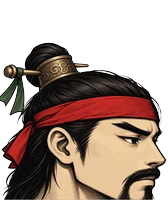
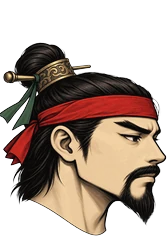
fix(s2): v585 무인 얼굴 — 턱까지 다시 그린 머리 · 턱은 옷깃 앞으로
- 머리 일곱 가지를 턱 · 수염 · 목 윗부분까지 다시 그림(전 그림은 턱 아래가 화폭에 잘려 있었다)
- 머리마다 가르는 줄: 얼굴 · 턱은 몸 앞 · 목만 옷깃 뒤(입 높이에서 일자로 끊기던 것)
- 장비 창 무인은 창이 열린 동안 계속 그림(그림이 늦게 와도) · 외형대로
- tools/s2art/head_fit2.py · wear.py 틀 고침

Claude-Session: https://claude.ai/code/session_01A3prWCVJXDYfeByQW7RT7U

diff --git a/js/s2/ui/look.js b/js/s2/ui/look.js
@@ -1,7 +1,7 @@
 // 새 시즌 미리보기 그림 — 지금 게임의 실제 그림(무인 · 몹 · 동물 · 지역 두목)을 그대로 빌려 쓴다.
 // 새 시즌 전용 그림(계획서 §M)이 나오기 전까지의 다리. 사냥터 레벨 → 지금 게임의 같은 레벨대 지역 모습.
 import { drawFighter } from '../../battle.js';
-import { loadArt, registerArt, OUTFIT_BODY, OUTFIT_WEAPON, WEAPON_FIT, HEAD_FIT } from '../../art.js';
+import { loadArt, registerArt, OUTFIT_BODY, OUTFIT_WEAPON, WEAPON_FIT, HEAD_FIT, FIT } from '../../art.js';
 import { HEAD_ANCHOR } from '../../headanchor.js';
 import { drawCreature } from '../../creatures.js';
 import { bossImg } from '../../bossfx.js';
@@ -49,7 +49,7 @@ function shade(hex, k) {
 //   신발: 장화 빛깔 · 망토: 등 뒤 망토 · 허리띠: 띠와 옥 노리개 · 목걸이: 몸 둘레 기운 낟알 · 반지: 발밑 문양 · 무기: 칼빛(진부터 빛남)
 //   가장 높은 등급이 신(5)↑이면 몸 기운
 // v517 장비 모양 조각(art/s2/wear) — 상의는 도포 그림, 모자는 머리(같은 얼굴 + 쓰개), 무기는 손에 쥔 그림. 받기 전에는 v516 빛깔로 그린다
-const WEAR_PAD = 60, WEAR_HC = 140;   // 머리 조각: 위 여유 · 상투 머리(잘라 낸 뒤) 높이 — tools/s2art/wear_fit.py와 같다
+const WEAR_PAD = 60, WEAR_HC = 140, WEAR_BOT = 40, WEAR_SPLIT = 22;   // v585 아래 BOT — 턱 · 목까지 그린 머리(tools/s2art/head_fit2.py)   // 머리 조각: 위 여유 · 상투 머리(잘라 낸 뒤) 높이 — tools/s2art/wear_fit.py와 같다
 const wear = {};
 let wearN = 0;
 export const wearCount = () => wearN;
@@ -66,9 +66,12 @@ function wearHead(g) {
   const key = `head-s2-${g}`;
   return wearImg(`head-${g}`, (im) => {
     // 상투 머리의 자리 값을 위 여유만큼 옮겨 그대로 — 얼굴 · 이마 · 턱이 같은 자리에 온다
-    const f = (v) => (WEAR_PAD + v * WEAR_HC) / (WEAR_PAD + WEAR_HC), A = HEAD_ANCHOR['head-topknot'], T = HEAD_FIT['head-topknot'];
+    // v585 화폭 = 위 PAD + 머리 HC + 아래 BOT(턱 · 목). 자리 값(위에서)은 그만큼 옮기고, 그림은 BOT만큼 내려 그린다 —
+    //   얼굴은 전 자리 그대로 · 턱은 앞에 · 목은 몸(옷깃) 뒤로(HEAD_SPLIT 아래는 몸 뒤에 그린다)
+    const H = WEAR_PAD + WEAR_HC + WEAR_BOT, f = (v) => (WEAR_PAD + v * WEAR_HC) / H, fb = (v) => (WEAR_BOT + v * WEAR_HC) / H;   // fb: 아래에서 잰 값(눈 · 눈썹)
+    const A = HEAD_ANCHOR['head-topknot'], T = HEAD_FIT['head-topknot'], F0 = T.fit || FIT.head;
     HEAD_ANCHOR[key] = { ...A, eyeY: f(A.eyeY), browY: f(A.browY), topY: f(A.topY), jawY: f(A.jawY) };
-    registerArt(key, im, { ...T, crop: 1, brow: f(T.brow), eye: f(T.eye) });
+    registerArt(key, im, { ...T, crop: 1, brow: fb(T.brow), eye: fb(T.eye), fit: { ...F0, y: F0.y + (WEAR_BOT * F0.w) / im.width }, split: F0.y + (WEAR_SPLIT * F0.w) / im.width });   // 턱 아래 WEAR_SPLIT px부터 몸 뒤로
   }) ? key : null;
 }
 const WEAR_W = { sword: 'sword', spear: 'spear', fist: 'fist', mage: 'staff' };   // 궁사 활은 그려 넣는 모양 그대로(빛만)

diff --git a/js/battle.js b/js/battle.js
@@ -4886,7 +4886,7 @@ export function drawFighter(ctx, x, y, look = {}, o = {}) {
   const mBody = look.robeTint ? (look.female ? 'f-body-white' : 'body-white') : bodyKey(look);
   const MG = hk0 && !o.noMerge ? mergedArt(mBody, hk0, look.band, tintHead0, look.robeTint || null) : null;
   if (hk0 && !o.noMerge) { if (MG) DRAW_STAT.merged++; else { DRAW_STAT.parts++; DRAW_STAT.last = `${mBody}--${hk0}`; } }
-  if (hk0 && !MG) { const F0 = (HEAD_FIT[hk0]?.fit) || FIT.head; drawHeadArt(ctx, hk0, { ...F0, y: F0.y + neckDy }, look, HEAD_SPLIT + neckDy, 99); }
+  if (hk0 && !MG) { const F0 = (HEAD_FIT[hk0]?.fit) || FIT.head; drawHeadArt(ctx, hk0, { ...F0, y: F0.y + neckDy }, look, splitOf(hk0) + neckDy, 99); }
   // 상체 — 그림 조각이 있으면 도포·상체·허리띠를 한 장으로 갈음한다
   const artBody = artReady() && !jiang && !look.ghost;
   // 두목 옷: 흰 도포 그림에 그 빛깔을 곱해 입힌다(그림 도포 여섯 빛깔에 없는 색도 그대로 나온다)
@@ -4947,7 +4947,7 @@ export function drawFighter(ctx, x, y, look = {}, o = {}) {
   const backDone = hk && hk === hk0 && !look.ghost;
   if (hk && MG && hk === hk0) {
     // 한 장 그림에 머리까지 다 있다
-  } else if (hk && (backDone ? drawHeadArt(ctx, hk, HF, look, headTop, HEAD_SPLIT + neckDy, tintHead) : hatR ? drawHeadArt(ctx, hk, HF, look, headTop, 99, tintHead) : (tintHead ? putArtBand(ctx, hk, HF, look.band) : putArt(ctx, hk, HF)))) {
+  } else if (hk && (backDone ? drawHeadArt(ctx, hk, HF, look, headTop, splitOf(hk) + neckDy, tintHead) : hatR ? drawHeadArt(ctx, hk, HF, look, headTop, 99, tintHead) : (tintHead ? putArtBand(ctx, hk, HF, look.band) : putArt(ctx, hk, HF)))) {
     // 머리카락까지 한 장
   } else {
   ctx.fillStyle = skin;
@@ -5143,6 +5143,8 @@ function femaleHeadKey(style, hairK, band) {
 // v359 모습 점검(tests/looks.cjs) — 무인을 한 장 그림으로 그렸나, 옛 조각으로 그렸나
 export const DRAW_STAT = { merged: 0, parts: 0, last: '' };
 const HEAD_SPLIT = FIT.head.y - 2;   // v327 이 선 아래 머리 그림은 몸 뒤로
+// v585 머리마다 가르는 줄 — 턱 · 목까지 그린 새 시즌 머리는 턱 아래(목)만 몸 뒤로(얼굴 · 턱은 앞에). 없으면 위 줄
+const splitOf = (hk) => HEAD_FIT[hk]?.split ?? HEAD_SPLIT;
 // v355 도구용 — 조각(머리 뒤쪽 · 도포 · 머리 앞쪽)만 이어 그린다(팔·다리·무기 없이). tools/charv355가 이걸 sunburst에 한 장으로 다시 그리게 넘긴다
 export function drawBodyHeadParts(ctx, look) {
   const hk = headKey(look), bk = bodyKey(look);

diff --git a/js/s2/ui/app.js b/js/s2/ui/app.js
@@ -447,7 +447,12 @@ function paintWin() {
     const c0 = card('끼고 있는 것', `전투력 ${unit(g.power())}`); c0(wrap);
     const nb = SLOTS.filter((s) => G.bag.some((x) => x.slot === s && (!G.eq[s] || gearScore(x, L) > gearScore(G.eq[s], L)))).length;
     c0(R('최고 장비 모두 끼기', nb ? `${nb}칸을 더 좋은 것으로` : '모두 가장 좋은 것을 끼고 있어요', [['모두 끼기', act(() => { const p0 = g.power(), n = equipBest(G, L); g.dirtyStats = true; g.emit('equip'); if (n) setTimeout(() => toast(`${n}칸 바꿈 · 전투력 ${unit(p0)} → ${unit(g.power())}`), 0); return n > 0; }), !nb]], '裝'));
-    requestAnimationFrame(() => { const x = cvs.getContext('2d'); x.clearRect(0, 0, 240, 300); x.save(); x.translate(0, 10); const gr = x.createRadialGradient(120, 190, 10, 120, 190, 130); gr.addColorStop(0, '#e8c26a44'); gr.addColorStop(1, 'rgba(0,0,0,0)'); x.fillStyle = gr; x.fillRect(0, 0, 240, 300); drawHero(x, 120, 270, g.S.hero.job, g.S.hero.lv, { t: now() / 1000, scale: 2.2, eq: g.S.gear.eq }); x.restore(); });
+    // v585 장비 창 무인 — 한 번만 그리면 머리 · 옷 그림이 아직 안 받아졌을 때 대신 그린 얼굴이 남았다(얼굴이 깨져 보임) → 창이 열려 있는 동안 계속 그린다(초당 20번) · 외형대로
+    { let last = 0; const paint = (ts) => {
+        if (!cvs.isConnected) return;
+        if (ts - last > 50) { last = ts; const x = cvs.getContext('2d'); x.clearRect(0, 0, 240, 300); x.save(); x.translate(0, 10); const gr = x.createRadialGradient(120, 190, 10, 120, 190, 130); gr.addColorStop(0, '#e8c26a44'); gr.addColorStop(1, 'rgba(0,0,0,0)'); x.fillStyle = gr; x.fillRect(0, 0, 240, 300); drawHero(x, 120, 270, g.S.hero.job, g.S.hero.lv, { t: now() / 1000, scale: 2.2, eq: g.lookEq() }); x.restore(); }
+        requestAnimationFrame(paint);
+      }; requestAnimationFrame(paint); }
     const sl = eqSel && SLOTS.includes(eqSel) ? eqSel : null;
     if (sl) {
       const it = G.eq[sl], S2 = G.slots[sl], stt = it ? itemStats(it, S2, L) : {};

diff --git a/js/s2/tables/news.js b/js/s2/tables/news.js
@@ -1,6 +1,7 @@
 // v560 업데이트 소식 — 돌아온 무인에게 새로 생긴 것을 짧게(최신이 위). v는 이 소식이 붙은 판.
 //   S.newsV(세이브)보다 새 소식이 있으면 들어올 때 한 번 보여 준다. 새로 시작한 무인은 지금 판으로 둔다(볼 것 없음).
 export const NEWS = [
+  { v: 585, title: '무인 얼굴 다시 그림', lines: ['턱 · 수염이 일자로 잘려 보이던 머리 일곱 가지를 턱까지 다시 그렸어요', '장비 창 무인은 이제 움직이고 외형대로 보여요'] },
   { v: 584, title: '길잡이 뒤에도 안내', lines: ['길잡이를 다 끝내면 왼쪽 칸에 오늘 할 일 다음 것 · 누르면 바로'] },
   { v: 583, title: '두목 연습', lines: ['던전 → 토벌 — 「연습」으로 깬 장 두목과 횟수 · 보상 없이(손으로 피하기 연습)'] },
   { v: 582, title: '탑 연속 오르기', lines: ['무한의 탑 — 질 때까지(최대 30층) 다음 층을 바로'] },

diff --git a/sw.js b/sw.js
@@ -1,5 +1,5 @@
 // 앱 껍데기를 캐시해 오프라인에서도 열리게 한다. 온라인이면 항상 새 파일을 먼저 받는다.
-const CACHE = 'ifu-v584';
+const CACHE = 'ifu-v585';
 const SHELL = [
   './', 'index.html', 'classic.html', 's2.html', 'install.html', 'icons/qr-install.png', 'css/style.css', 'manifest.webmanifest',
   'js/clock.js', 'js/big.js', 'js/data.js', 'js/battle.js', 'js/net.js', 'js/savecode.js', 'js/art2.js', 'js/headanchor.js', 'js/chars.js', 'js/vault.js', 'js/femhead.js', 'js/fmt.js', 'js/firebase-config.js',

diff --git a/js/data.js b/js/data.js
@@ -51,7 +51,7 @@ export const critExpect = (C, D) => {
 // NaN이 된다 — 재 보니 적 체력이 관문 8467에서 그 선을 넘었다.
 // 반대로 상한이 있는 값(경지 배수·초월 단계처럼)은 보통 숫자 그대로 둔다.
 
-export const BUILD = 'ifu-v584';
+export const BUILD = 'ifu-v585';
 
 export const SAVE_VERSION = 4;
 export const OFFLINE_CAP_SEC = 12 * 3600;

diff --git a/tools/s2art/head_fit2.py b/tools/s2art/head_fit2.py
@@ -1,0 +1,60 @@
+# v585 머리 조각 다시 맞춤 — 새로 그린 머리(턱 · 수염 · 목 윗부분까지 다 보이게)를 게임 머리 조각으로.
+#   전 그림(tools/s2art/wear.py)은 참고 머리처럼 턱 아래가 화폭에 잘려 있어 장비 창처럼 크게 그리면 턱이 일자로 끊겨 보였다.
+#   크기: 머리띠 가운데 ~ 코끝 높이 · 가로: 코끝 · 세로: 머리띠(붉은 띠)의 가운데를 참고 상투 머리에 맞춘다.
+#   화폭: 168 x (PAD + CHIN + BOT) — 위 PAD(관 · 깃털) · 아래 BOT(턱 · 목). 게임은 BOT만큼 내려 그린다(js/s2/ui/look.js WEAR_BOT).
+#   사용: python3 tools/s2art/head_fit2.py <새 머리 png 폴더>   → art/s2/wear/head-*.webp
+import sys, os, glob
+from PIL import Image
+sys.path.insert(0, os.path.dirname(__file__))
+SRC = sys.argv[1]
+HERE = os.path.dirname(__file__)
+HERO = os.path.join(HERE, '..', '..', 'art', 'hero')
+OUT = os.path.join(HERE, '..', '..', 'art', 's2', 'wear')
+PAD, BOT = 60, 40
+BAND_AT = 107   # 머리띠 가운데 높이 — 전 머리(v533, 턱을 화폭 아래에 맞춘 것)들의 자리와 같게(참고 머리 그대로면 11px 낮아 턱이 옷깃 뒤로 숨었다)
+
+def skin_box(im):
+    w, h = im.size; px = im.load(); xs = []; ys = []
+    bb = im.getchannel('A').point(lambda v: 255 if v > 20 else 0).getbbox() or (0, 0, w, h)
+    for y in range(bb[1] + int((bb[3] - bb[1]) * 0.45), bb[3], 2):
+        for x in range(0, w, 2):
+            r, g, b, a = px[x, y]
+            if a > 200 and r > 170 and g > 120 and b > 85 and r > g > b and r - b > 30 and r - b < 120:
+                xs.append(x); ys.append(y)
+    xs.sort(); ys.sort(); n = len(xs)
+    return xs[n // 100], ys[n // 100], xs[n * 99 // 100], ys[n * 99 // 100]
+def band_y(im, lo=0.2, hi=0.75):
+    px = im.load(); w, h = im.size; bb = im.getchannel('A').point(lambda v: 255 if v > 40 else 0).getbbox()
+    rows = []
+    for y in range(bb[1] + int((bb[3] - bb[1]) * lo), bb[1] + int((bb[3] - bb[1]) * hi), 1):
+        n = sum(1 for x in range(0, w, 2) if px[x, y][3] > 200 and px[x, y][0] > 110 and px[x, y][0] > 2 * px[x, y][1] and px[x, y][0] > 2 * px[x, y][2])
+        rows.append((n, y))
+    m = max(n for n, _ in rows); ys = [y for n, y in rows if n >= m * 0.6]
+    return sum(ys) / len(ys)
+def nose_x(im, y0, y1):
+    px = im.load(); w = im.size[0]
+    return max(x for y in range(int(y0), int(y1), 2) for x in range(w) if px[x, y][3] > 200)
+def nose_tip(im, y0, y1):   # 머리띠 아래 가장 오른쪽 점(코끝) — (x, y)
+    px = im.load(); w = im.size[0]; best = (-1, 0)
+    for y in range(int(y0), int(y1)):
+        for x in range(w - 1, -1, -1):
+            if px[x, y][3] > 200:
+                if x > best[0]: best = (x, y)
+                break
+    return best
+
+ref = Image.open(f'{HERO}/head-topknot.png').convert('RGBA'); RW, RH = ref.size
+CHIN = round(RH * 0.93)
+rB = band_y(ref, 0.35, 0.75); rN, rNy = nose_tip(ref, rB + 6, CHIN - 10); rb = skin_box(ref)
+for f in sorted(glob.glob(f'{SRC}/head-*.png')):
+    im = Image.open(f).convert('RGBA')
+    # 크기: 머리띠 가운데 ~ 코끝 높이(쓰개 · 턱 · 목과 상관없다) — 전엔 아래 얼굴 살빛 폭이라 목까지 그린 그림에서 머리가 작아졌다
+    gB = band_y(im); bb = im.getchannel('A').getbbox()
+    gN, gNy = nose_tip(im, gB + 20, gB + (bb[3] - gB) * 0.5)
+    k = (rNy - rB) / (gNy - gB)
+    gb = skin_box(im); k2 = (rb[2] - rb[0]) / (gb[2] - gb[0])   # 얼굴 폭으로 잰 값 — 코끝을 잘못 잡으면(쓰개 비녀가 오른쪽 끝) 이것으로
+    if abs(k / k2 - 1) > 0.15: k, gN = k2, nose_x(im, gB, gB + (bb[3] - gB) * 0.45)
+    im = im.resize((round(im.width * k), round(im.height * k)), Image.LANCZOS)
+    cv = Image.new('RGBA', (RW, PAD + CHIN + BOT), (0, 0, 0, 0))
+    cv.paste(im, (round(rN - gN * k), round(BAND_AT - gB * k)), im)
+    cv.save(f'{OUT}/{os.path.basename(f)[:-4]}.webp', 'WEBP', quality=90, method=6); print(os.path.basename(f), cv.size, 'k', round(k, 4))

diff --git a/tools/s2art/wear.py b/tools/s2art/wear.py
@@ -23,8 +23,11 @@ TOPS = [
   "a celestial immortal's raiment: layered white jade-silk robes with platinum cloud and star ornaments, an ornate high collar, short floating ribbons kept inside the canvas.",
 ]
 HEAD = ("The reference is a character's HEAD (same 3/4 view facing right). Redraw EXACTLY the same head — same face, same eyes, same expression, same hair and topknot bun, same skin, "
-        "same size, same position and same framing on the canvas — and only ADD the following headwear on the head. Nothing else changes. No body, no neck below the chin line of the reference. "
-        "Transparent background, no text. Headwear: ")
+        "and only ADD the following headwear on the head. Nothing else changes. No body, no shoulders. "
+        "Transparent background, no text. "
+        # v585 턱이 화폭에 잘리지 않게 — 턱 · 수염 · 목 윗부분까지 다 보이고 아래에 빈 자리(tools/s2art/head_fit2.py로 맞춘다)
+        "IMPORTANT FRAMING: show the COMPLETE head — the whole jaw, the full chin and the full beard tip must be entirely visible, followed by the top of the neck. "
+        "Leave clear empty transparent space below the neck; nothing may be cut off by the bottom edge of the canvas. The head should occupy roughly the upper 75% of the canvas height. Headwear: ")
 HATS = [
   "a plain wooden hairpin pushed through the topknot bun and a thin undyed cloth band around the bun.",
   "a small bronze topknot crown (guan) wrapping the bun, with a bronze hairpin and two short green ribbons.",

diff --git a/docs/바람식_개편.md b/docs/바람식_개편.md
@@ -4519,3 +4519,16 @@ v517(도포 · 쓰개 · 무기)에 이어 남은 부위를 모두 등급마다 
 - 길잡이(21단계)를 다 끝내면 사라지던 왼쪽 칸에 **오늘 할 일 다음 것**: 열렸고 덜 한 것 중 첫째(진행 n/m) · 다 했으면 「하루 상자 열기」(금빛) · 그것도 받았으면 숨김. 누르면 그 창으로.
 - 업데이트 소식에 한 줄.
 - 시험: 길잡이 끝 → 오늘 할 일 다음 것 · 누르면 그 창(칸이 보이는 배치에서).
+
+## v585 장비 창 무인 얼굴 고침
+
+- 고침: 장비 → 장착의 가운데 무인을 창을 열 때 **한 번만** 그려서, 머리 · 옷 그림이 아직 받아지지 않았으면(처음 끼거나 처음 여는 손전화) 대신 그린 얼굴(띠 · 만화 얼굴)이 그대로 남아 「얼굴이 깨져」 보였다 → 창이 열려 있는 동안 계속 그린다(초당 20번 · 숨 쉬는 움직임) — 그림이 받아지면 바로 바뀐다.
+- 장비 창 무인도 **외형**(v565)대로.
+- 확인: 활 무인 · 모자 진 · 보 · 신 · 천 · 상의 진 · 보 · 천 조합을 크게 찍어 봄 · 막 낀 천품 모자로 창을 바로 열어도 2.5초 뒤 그림 얼굴.
+
+- **진짜 까닭과 고침(같은 판에서 이어서)**: 얼굴이 「깨져」 보인 것은 그리기 문제만이 아니었다.
+  1. 머리 그림 자체가 턱 아래에서 화폭에 잘려 있었다(참고 상투 머리부터 턱이 잘린 그림 — 옛 게임은 옷깃이 높아 가려졌다).
+  2. 머리를 정해진 한 줄(HEAD_SPLIT — 입 높이)에서 갈라 아래는 몸 뒤로 그려, 옷깃이 낮은 새 시즌 옷에서는 입 · 수염이 일자로 끊겼다.
+  - **머리 일곱 가지를 턱 · 수염 · 목 윗부분까지 다시 그림**(sunburst · tools/s2art/wear.py 틀 고침) → `tools/s2art/head_fit2.py`로 맞춤: 크기 = 머리띠 ~ 코끝 높이(비녀가 끝에 걸리면 얼굴 폭) · 가로 = 코끝 · 세로 = 머리띠를 전 머리 자리(107)에 · 화폭 168×240(아래 BOT 40 = 턱 · 목).
+  - 게임(js/s2/ui/look.js): 머리를 BOT만큼 내려 그려 얼굴은 전 자리 그대로 · **머리마다 가르는 줄(split)**을 턱 아래 22px로 — 얼굴 · 턱은 몸 앞 · 목만 옷깃 뒤(js/battle.js splitOf, 다른 머리는 전 줄 그대로).
+  - 확인: 활 무인 모자 · 상의 일곱 등급을 크게 찍어 봄 · 손전화(돌려 보기)에서 장비 창 · 사냥터 · 위 얼굴.
